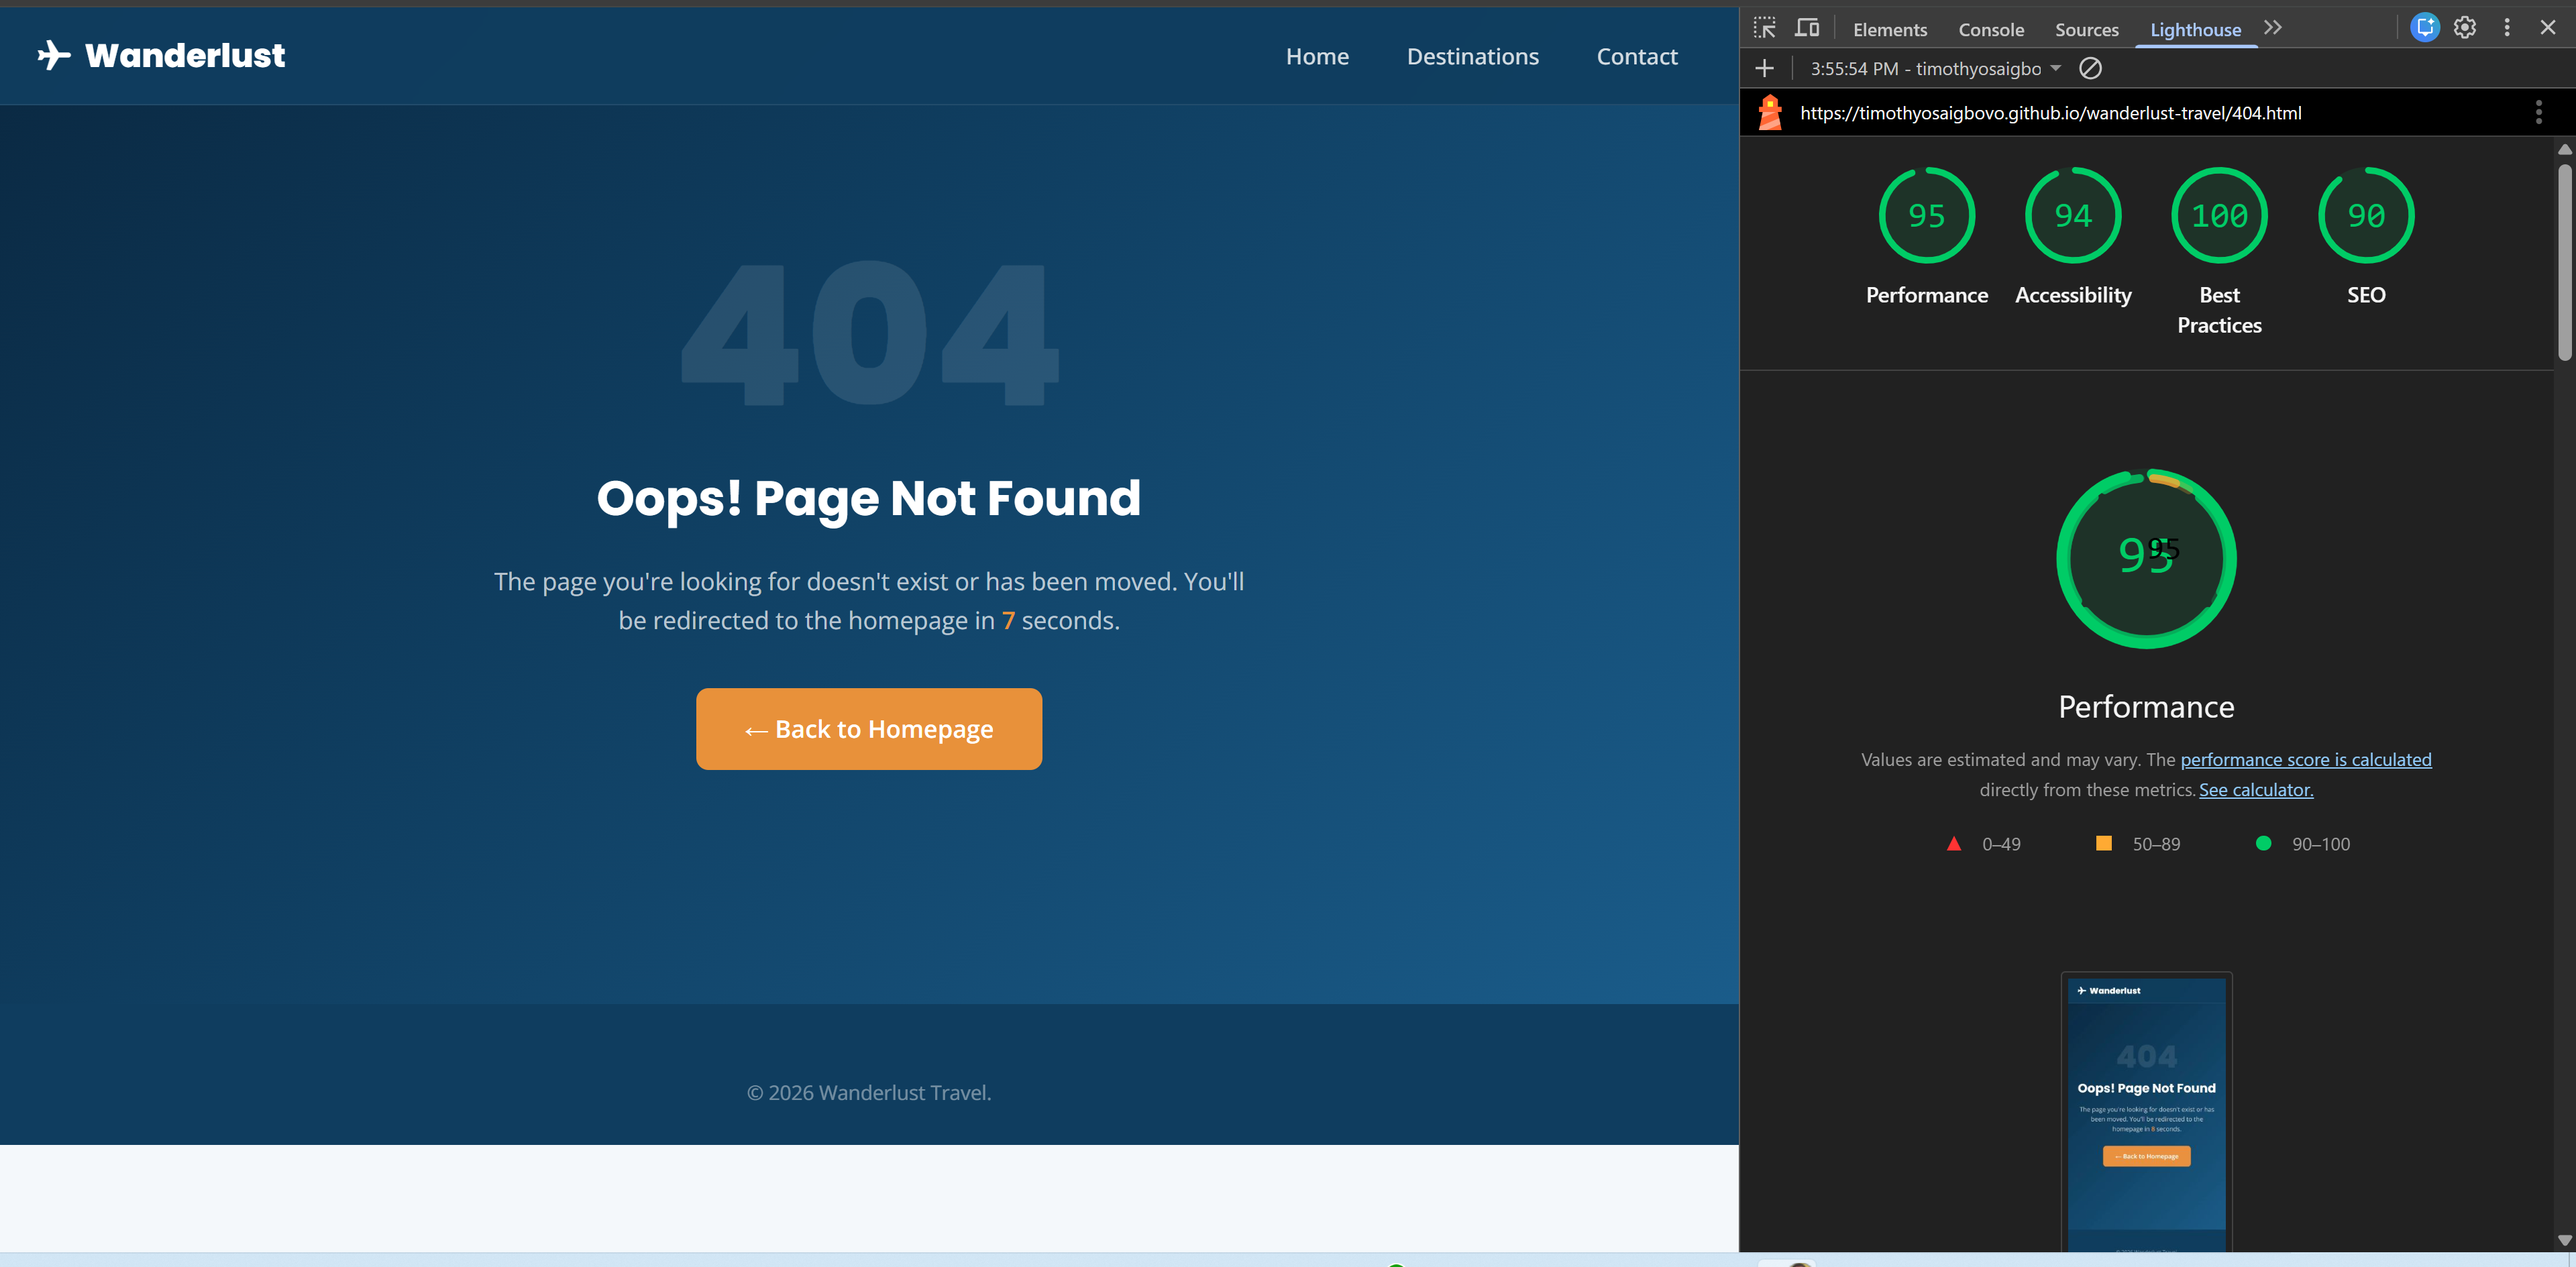
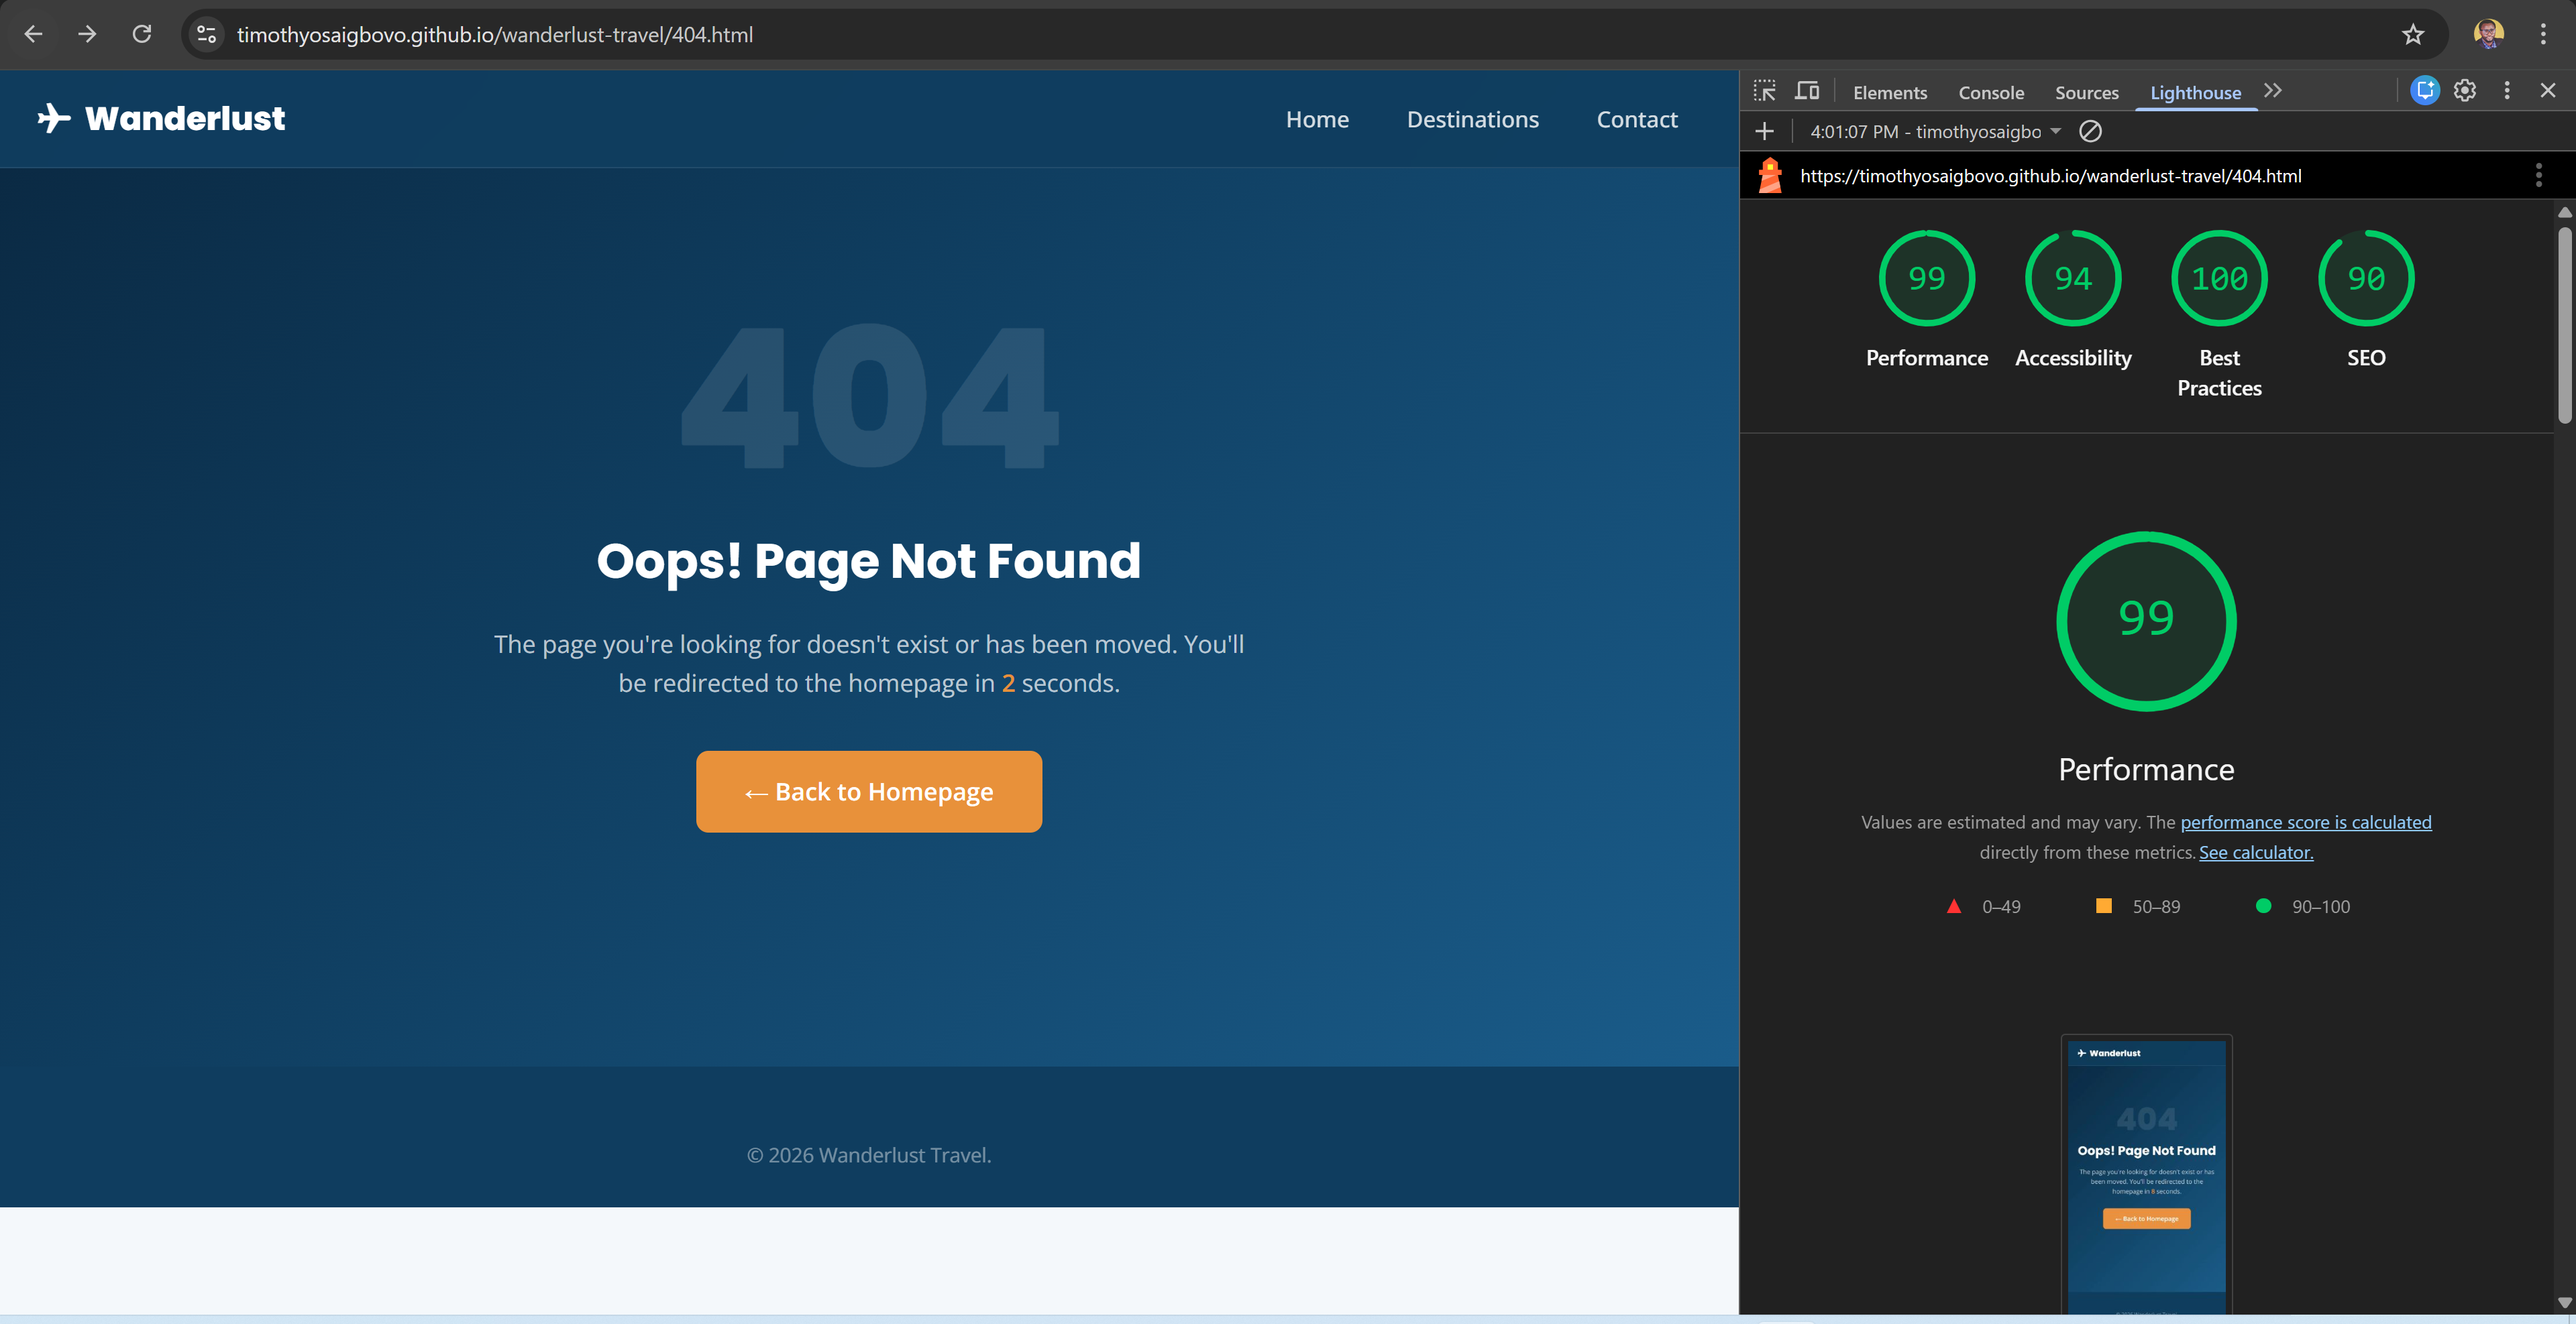
Update TESTING.md with complete Lighthouse scores and bug documentation

diff --git a/TESTING.md b/TESTING.md
@@ -1,0 +1,227 @@
+# Testing - Wanderlust Travel
+
+## Table of Contents
+- [Automated vs Manual Testing](#automated-vs-manual-testing)
+- [Code Validation](#code-validation)
+- [Manual Testing](#manual-testing)
+- [Responsiveness Testing](#responsiveness-testing)
+- [Browser Compatibility](#browser-compatibility)
+- [Lighthouse Audit](#lighthouse-audit)
+- [Bugs Found and Fixes](#bugs-found-and-fixes)
+
+---
+
+## Automated vs Manual Testing
+
+### Manual Testing
+Manual testing involves a human tester interacting with the application, following test scripts, and checking expected outcomes against actual results. Manual testing is best suited for:
+- User experience (UX) testing
+- Visual and layout testing
+- Exploratory testing to find unexpected issues
+- Accessibility testing with screen readers and keyboard navigation
+
+### Automated Testing
+Automated testing uses test scripts and frameworks (such as Jasmine or Jest) to run predefined assertions without human input. Automated testing is best suited for:
+- Unit testing individual JavaScript functions
+- Regression testing to ensure new changes don't break existing features
+- Testing the same conditions repeatedly across different environments
+
+### Approach Chosen
+Manual testing was chosen as the primary testing approach for this project because it best suits testing user interactions, visual responsiveness, and real-world browser behaviour. Each feature was tested systematically against the user stories and acceptance criteria defined during the planning phase.
+
+---
+
+## Code Validation
+
+### HTML Validation (W3C Markup Validator)
+All HTML pages were validated using the [W3C Markup Validation Service](https://validator.w3.org/).
+
+| Page | Result | Screenshot |
+|------|--------|------------|
+| index.html | Pass - No errors | ![index validation](docs/testing/html-index.png) |
+| destinations.html | Pass - No errors | ![destinations validation](docs/testing/html-destinations.png) |
+| contact.html | Pass - No errors | ![contact validation](docs/testing/html-contact.png) |
+| 404.html | Pass - No errors | ![404 validation](docs/testing/html-404.png) |
+
+### CSS Validation (W3C Jigsaw Validator)
+CSS was validated using the [W3C CSS Validation Service](https://jigsaw.w3.org/css-validator/).
+
+| File | Result | Screenshot |
+|------|--------|------------|
+| style.css | Pass - No errors | ![css validation](docs/testing/css-validation.png) |
+
+### JavaScript Validation (JSHint)
+JavaScript files were validated using [JSHint](https://jshint.com/) with ES8 configuration enabled. The following directives were used at the top of each file during validation:
+- script.js: `/* jshint esversion: 8, browser: true */ /* global L, AbortController */`
+- contact.js: `/* jshint esversion: 8, browser: true */ /* global emailjs */`
+
+| File | Result | Notes | Screenshot |
+|------|--------|-------|------------|
+| script.js | Pass - No major issues | 8 warnings for misleading line breaks (style preference only) | ![script validation](docs/testing/js-script.png) |
+| contact.js | Pass - No major issues | 1 warning for function in loop (non-critical) | ![contact validation](docs/testing/js-contact.png) |
+
+---
+
+## Manual Testing
+
+### Navigation Testing
+
+| # | Test | Steps | Expected Result | Actual Result | Pass/Fail |
+|---|------|-------|-----------------|---------------|-----------|
+| 1 | Home link | Click "Home" in navbar | index.html loads | index.html loads correctly | Pass |
+| 2 | Destinations link | Click "Destinations" in navbar | destinations.html loads | destinations.html loads correctly | Pass |
+| 3 | Contact link | Click "Contact" in navbar | contact.html loads | contact.html loads correctly | Pass |
+| 4 | Logo navigates home | Click the Wanderlust logo from any page | Returns to index.html | Returns to index.html | Pass |
+| 5 | Mobile hamburger menu | Resize browser to mobile width, click hamburger icon | Menu opens and shows links | Menu opens and shows all links | Pass |
+| 6 | Mobile menu closes | Click a link in the mobile menu | Menu closes and page navigates | Menu closes, page loads | Pass |
+| 7 | Active page highlighted | Visit each page | Current page link has different styling | Current page link is highlighted | Pass |
+| 8 | GitHub footer link | Click "GitHub" in footer | Opens GitHub repo in new tab | Opens in new tab | Pass |
+| 9 | Back to top button | Scroll down, click up arrow button | Scrolls smoothly to top | Scrolls to top smoothly | Pass |
+| 10 | Back to top hidden at top | Load any page (at top) | Up arrow button is not visible | Button is hidden | Pass |
+
+### Search Functionality Testing (index.html)
+
+| # | Test | Steps | Expected Result | Actual Result | Pass/Fail |
+|---|------|-------|-----------------|---------------|-----------|
+| 11 | Valid country search | Type "Japan", click Search | Japan card and map marker appear | Japan card displayed, marker on map | Pass |
+| 12 | Multiple results | Type "United", click Search | Multiple countries shown (UK, US, UAE, etc.) | Multiple cards and markers displayed | Pass |
+| 13 | Empty search | Leave field empty, click Search | Error: "Please enter a country name" | Error message shown | Pass |
+| 14 | Single character | Type "a", click Search | Error: "at least 2 characters" | Error message shown | Pass |
+| 15 | Numbers in search | Type "123", click Search | Error: "valid country name (letters only)" | Error message shown | Pass |
+| 16 | Special characters | Type "@#$", click Search | Error: "valid country name (letters only)" | Error message shown | Pass |
+| 17 | Non-existent country | Type "Xyzzyland", click Search | Info: "No countries found" | Info message shown | Pass |
+| 18 | Loading spinner | Search any valid country | Spinner appears during loading | Spinner visible while fetching data | Pass |
+| 19 | New search clears old | Search "France", then search "Japan" | Old results replaced with new | Previous results cleared, new shown | Pass |
+| 20 | Map markers appear | Search "Italy" | Marker appears on Italy on the map | Marker placed correctly | Pass |
+| 21 | View on Map button | Click "View on Map" on a card | Map zooms to that country | Map flies to country location | Pass |
+
+### Search Functionality Testing (destinations.html)
+
+| # | Test | Steps | Expected Result | Actual Result | Pass/Fail |
+|---|------|-------|-----------------|---------------|-----------|
+| 22 | Destinations search works | Type "Brazil", click Search | Brazil card and map marker appear | Card and marker displayed | Pass |
+| 23 | Destinations empty search | Submit empty field | Error message shown | Error message displayed | Pass |
+| 24 | Destinations invalid input | Type "999", submit | Error message shown | Error message displayed | Pass |
+| 25 | Map loads on page | Open destinations.html | Map is visible and interactive | Map loads with world view | Pass |
+
+### Contact Form Testing
+
+| # | Test | Steps | Expected Result | Actual Result | Pass/Fail |
+|---|------|-------|-----------------|---------------|-----------|
+| 26 | All fields empty | Click "Send Message" with all empty | All 3 error messages appear | All error messages shown | Pass |
+| 27 | Name too short | Enter "A" as name, fill others correctly | Name error shown | Name error displayed | Pass |
+| 28 | Invalid email format | Enter "notanemail" as email | Email error shown | Email error displayed | Pass |
+| 29 | Message too short | Enter "Hi" as message | Message error shown | Message error displayed | Pass |
+| 30 | Valid submission | Fill all fields correctly, submit | Success message, form clears | Success message shown, form reset | Pass |
+| 31 | Loading state | Submit valid form | Button shows "Sending..." | Button text changes to "Sending..." | Pass |
+| 32 | Error clears on typing | Trigger name error, then start typing | Error disappears | Error removed on input | Pass |
+| 33 | Email error clears | Trigger email error, then type valid email | Error disappears | Error removed on input | Pass |
+| 34 | Message error clears | Trigger message error, then type more | Error disappears | Error removed on input | Pass |
+
+### 404 Page Testing
+
+| # | Test | Steps | Expected Result | Actual Result | Pass/Fail |
+|---|------|-------|-----------------|---------------|-----------|
+| 35 | 404 page displays | Navigate to /nonexistent-page | 404 page appears | 404 page shown with styling | Pass |
+| 36 | Countdown works | Watch the countdown number | Counts down from 10 to 0 | Numbers decrease every second | Pass |
+| 37 | Auto-redirect | Wait 10 seconds on 404 page | Redirects to homepage | Redirected to index.html | Pass |
+| 38 | Manual home link | Click "Back to Homepage" button | Goes to index.html | Navigated to homepage | Pass |
+| 39 | 404 navigation works | Click nav links on 404 page | Navigate to correct pages | All nav links work | Pass |
+
+### Featured Destinations Testing (index.html)
+
+| # | Test | Steps | Expected Result | Actual Result | Pass/Fail |
+|---|------|-------|-----------------|---------------|-----------|
+| 40 | Featured cards load | Open index.html | 6 featured country cards appear | All 6 cards loaded | Pass |
+| 41 | Flag images display | Check featured cards | Each card shows country flag | Flags displayed correctly | Pass |
+| 42 | Country data correct | Check card details | Capital, population, currency shown | Data displayed accurately | Pass |
+
+---
+
+## Responsiveness Testing
+
+Testing was performed using Chrome DevTools device emulation.
+
+| Device / Width | index.html | destinations.html | contact.html | 404.html |
+|---------------|------------|-------------------|--------------|----------|
+| iPhone SE (375px) | Pass | Pass | Pass | Pass |
+| iPhone 12 (390px) | Pass | Pass | Pass | Pass |
+| iPad (768px) | Pass | Pass | Pass | Pass |
+| iPad Pro (1024px) | Pass | Pass | Pass | Pass |
+| Laptop (1366px) | Pass | Pass | Pass | Pass |
+| Desktop (1920px) | Pass | Pass | Pass | Pass |
+
+### Key Responsive Checks
+
+| # | Test | Expected | Result |
+|---|------|----------|--------|
+| 43 | Mobile shows hamburger menu | Hamburger icon visible below 768px | Pass |
+| 44 | Desktop shows full nav | All links visible above 768px | Pass |
+| 45 | Cards stack on mobile | Single column on small screens | Pass |
+| 46 | Cards grid on desktop | 3+ columns on large screens | Pass |
+| 47 | Search bar stacks on mobile | Input and button stack vertically | Pass |
+| 48 | Map resizes correctly | Map adjusts to container width | Pass |
+| 49 | No horizontal scrollbar | No overflow on any screen size | Pass |
+| 50 | Touch targets 44px+ | All buttons/links are tappable | Pass |
+
+---
+
+## Browser Compatibility
+
+| Browser | Version | Result | Notes |
+|---------|---------|--------|-------|
+| Google Chrome | Latest | Pass | Primary development browser |
+| Mozilla Firefox | Latest | Pass | All features working |
+| Microsoft Edge | Latest | Pass | All features working |
+
+---
+
+## Lighthouse Audit
+
+Lighthouse audits were run using Google Chrome DevTools on the deployed site. All pages scored 90+ in every category.
+
+### Mobile Results
+
+| Page | Performance | Accessibility | Best Practices | SEO | Screenshot |
+|------|-------------|---------------|----------------|-----|------------|
+| index.html | 90 | 96 | 100 | 100 | ![lighthouse index](docs/testing/lh-index-mobile.png) |
+| destinations.html | 96 | 96 | 96 | 100 | ![lighthouse dest](docs/testing/lh-dest-mobile.png) |
+| contact.html | 99 | 95 | 100 | 100 | ![lighthouse contact](docs/testing/lh-contact-mobile.png) |
+| 404.html | 99 | 94 | 100 | 90 | ![lighthouse 404](docs/testing/lh-404-mobile.png) |
+
+### Desktop Results
+
+| Page | Performance | Accessibility | Best Practices | SEO | Screenshot |
+|------|-------------|---------------|----------------|-----|------------|
+| index.html | 99 | 96 | 100 | 100 | ![lighthouse index](docs/testing/lh-index-desktop.png) |
+| destinations.html | 94 | 96 | 96 | 100 | ![lighthouse dest](docs/testing/lh-dest-desktop.png) |
+| contact.html | 99 | 95 | 100 | 100 | ![lighthouse contact](docs/testing/lh-contact-desktop.png) |
+| 404.html | 95 | 94 | 100 | 90 | ![lighthouse 404](docs/testing/lh-404-desktop.png) |
+
+---
+
+## Bugs Found and Fixes
+
+### Bug #1: Map not rendering correctly when results section is first shown
+- **Description:** The Leaflet map showed grey tiles when the results section was first made visible
+- **Steps to reproduce:** Open index.html, search for a country for the first time
+- **Expected:** Map displays correctly with tiles
+- **Actual:** Grey area shown instead of map tiles
+- **Fix applied:** Added `setTimeout` with `map.invalidateSize()` after showing the container. This forces Leaflet to recalculate the map dimensions after the container becomes visible.
+- **Status:** Fixed
+
+### Bug #2: HTML validation warnings for redundant attributes
+- **Description:** W3C validator flagged `role="navigation"` on `<nav>` elements and trailing slashes on void elements
+- **Steps to reproduce:** Run W3C HTML validator on any page
+- **Expected:** No warnings or errors
+- **Actual:** Warning about unnecessary role attribute and info about trailing slashes
+- **Fix applied:** Removed `role="navigation"` from all `<nav>` elements (the role is implicit). Removed trailing slashes from void elements like `<link>`.
+- **Status:** Fixed
+
+### Bug #3: Section elements without headings on destinations and contact pages
+- **Description:** W3C validator warned that `<section>` elements lacked heading elements
+- **Steps to reproduce:** Run W3C HTML validator on destinations.html and contact.html
+- **Expected:** No warnings
+- **Actual:** Warning about sections lacking headings
+- **Fix applied:** Changed `<section>` elements that did not have headings to `<div>` elements, as these were container elements rather than semantic sections.
+- **Status:** Fixed
